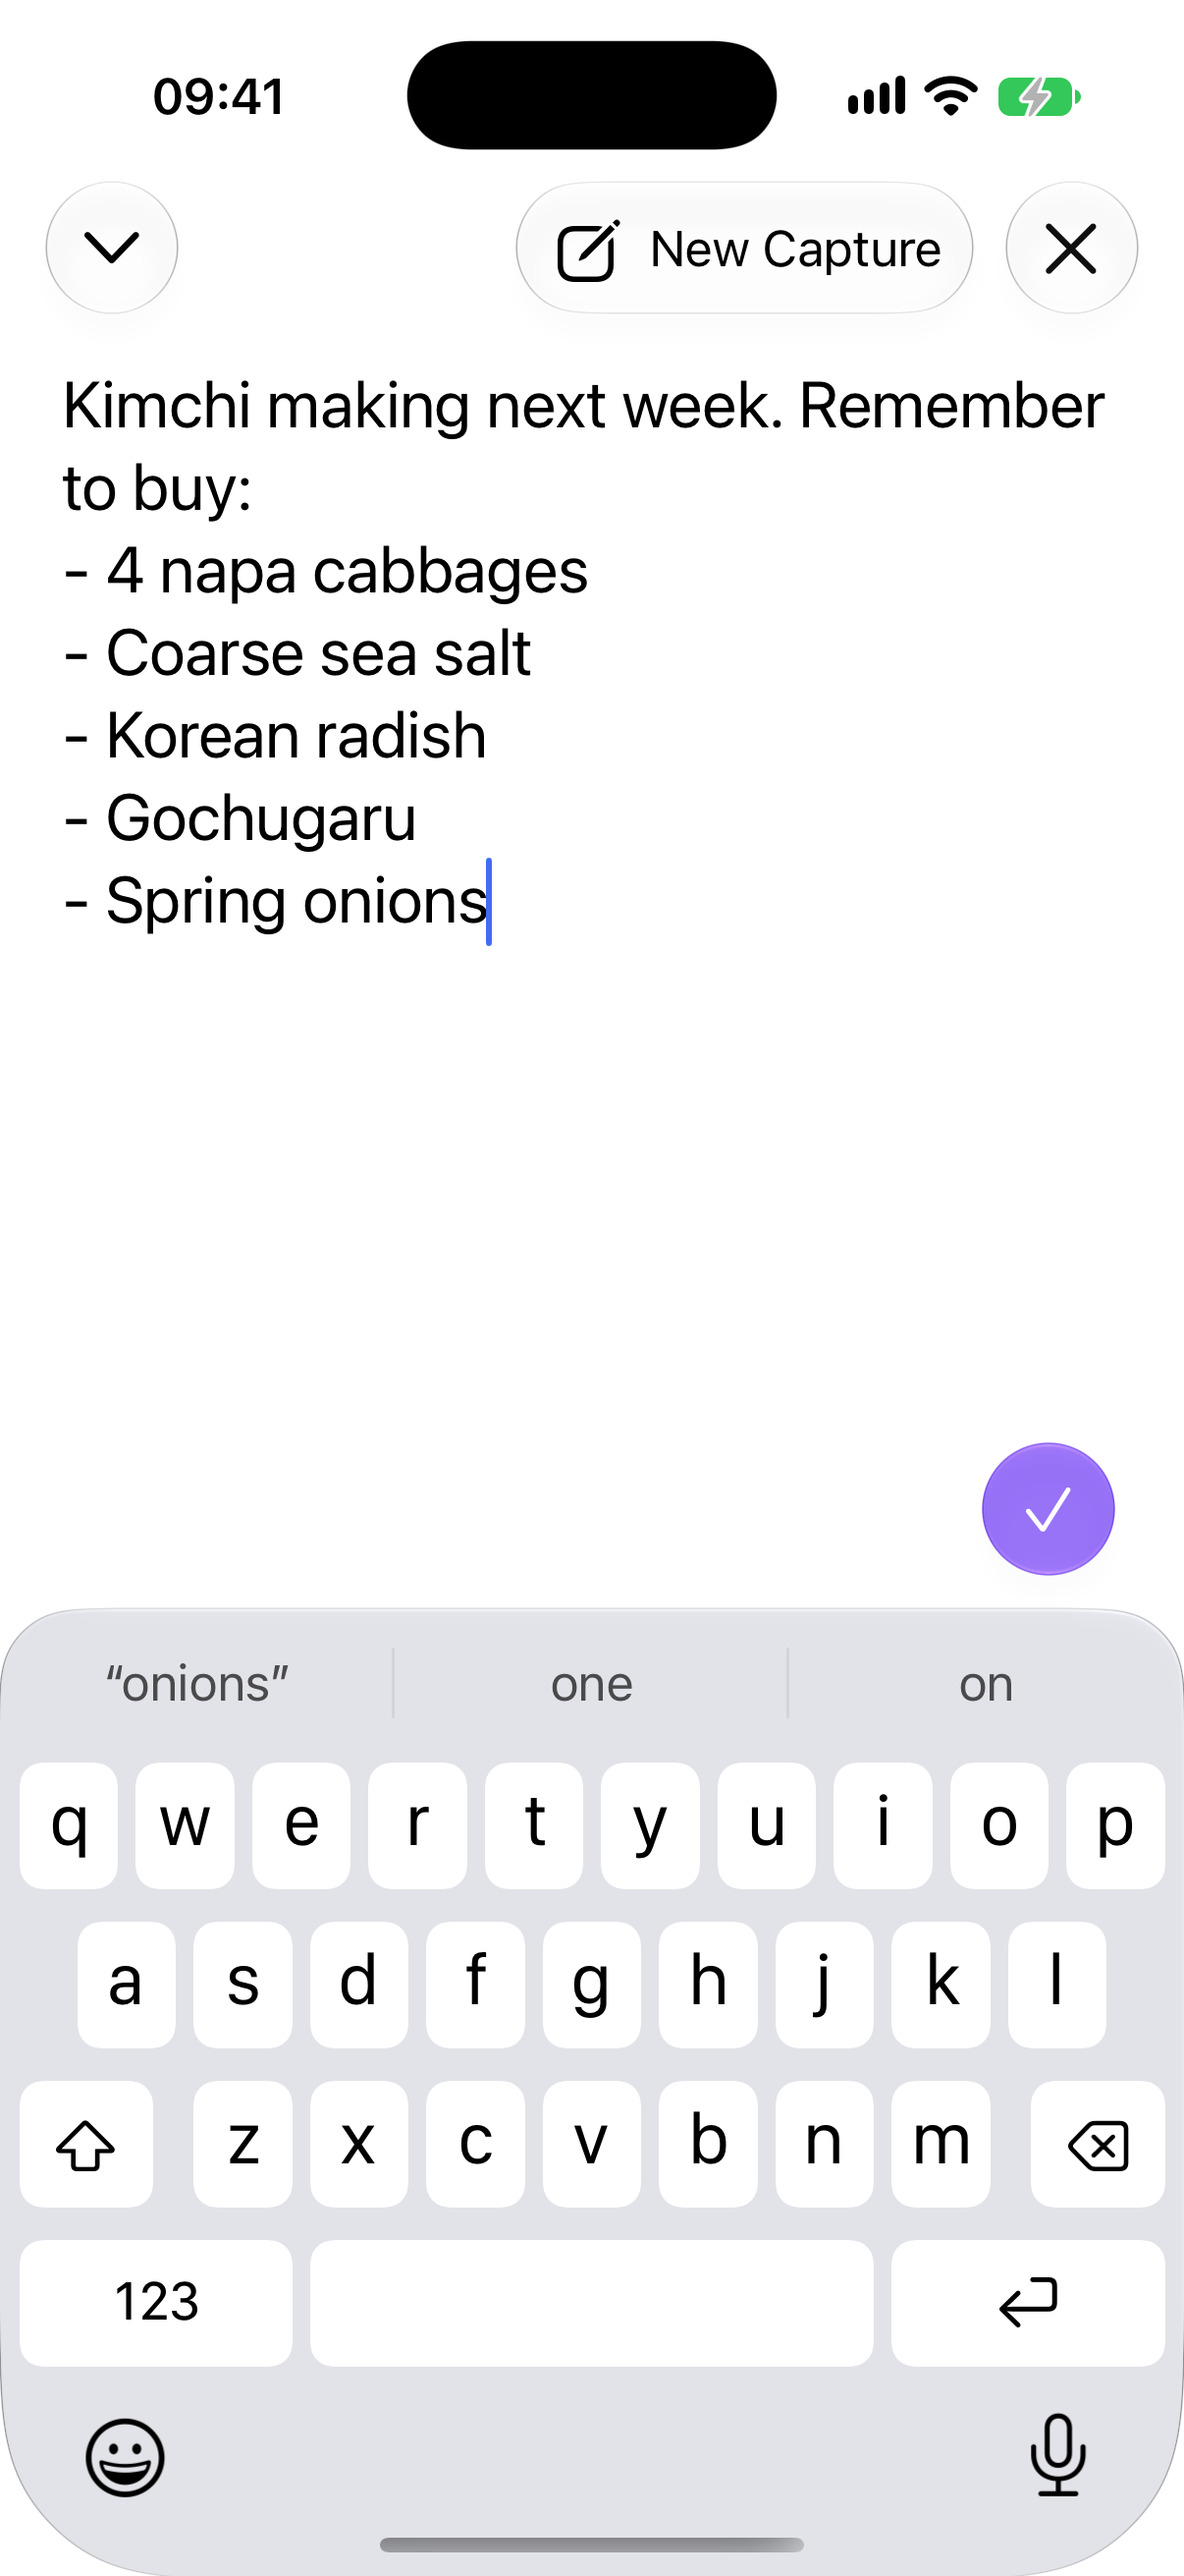
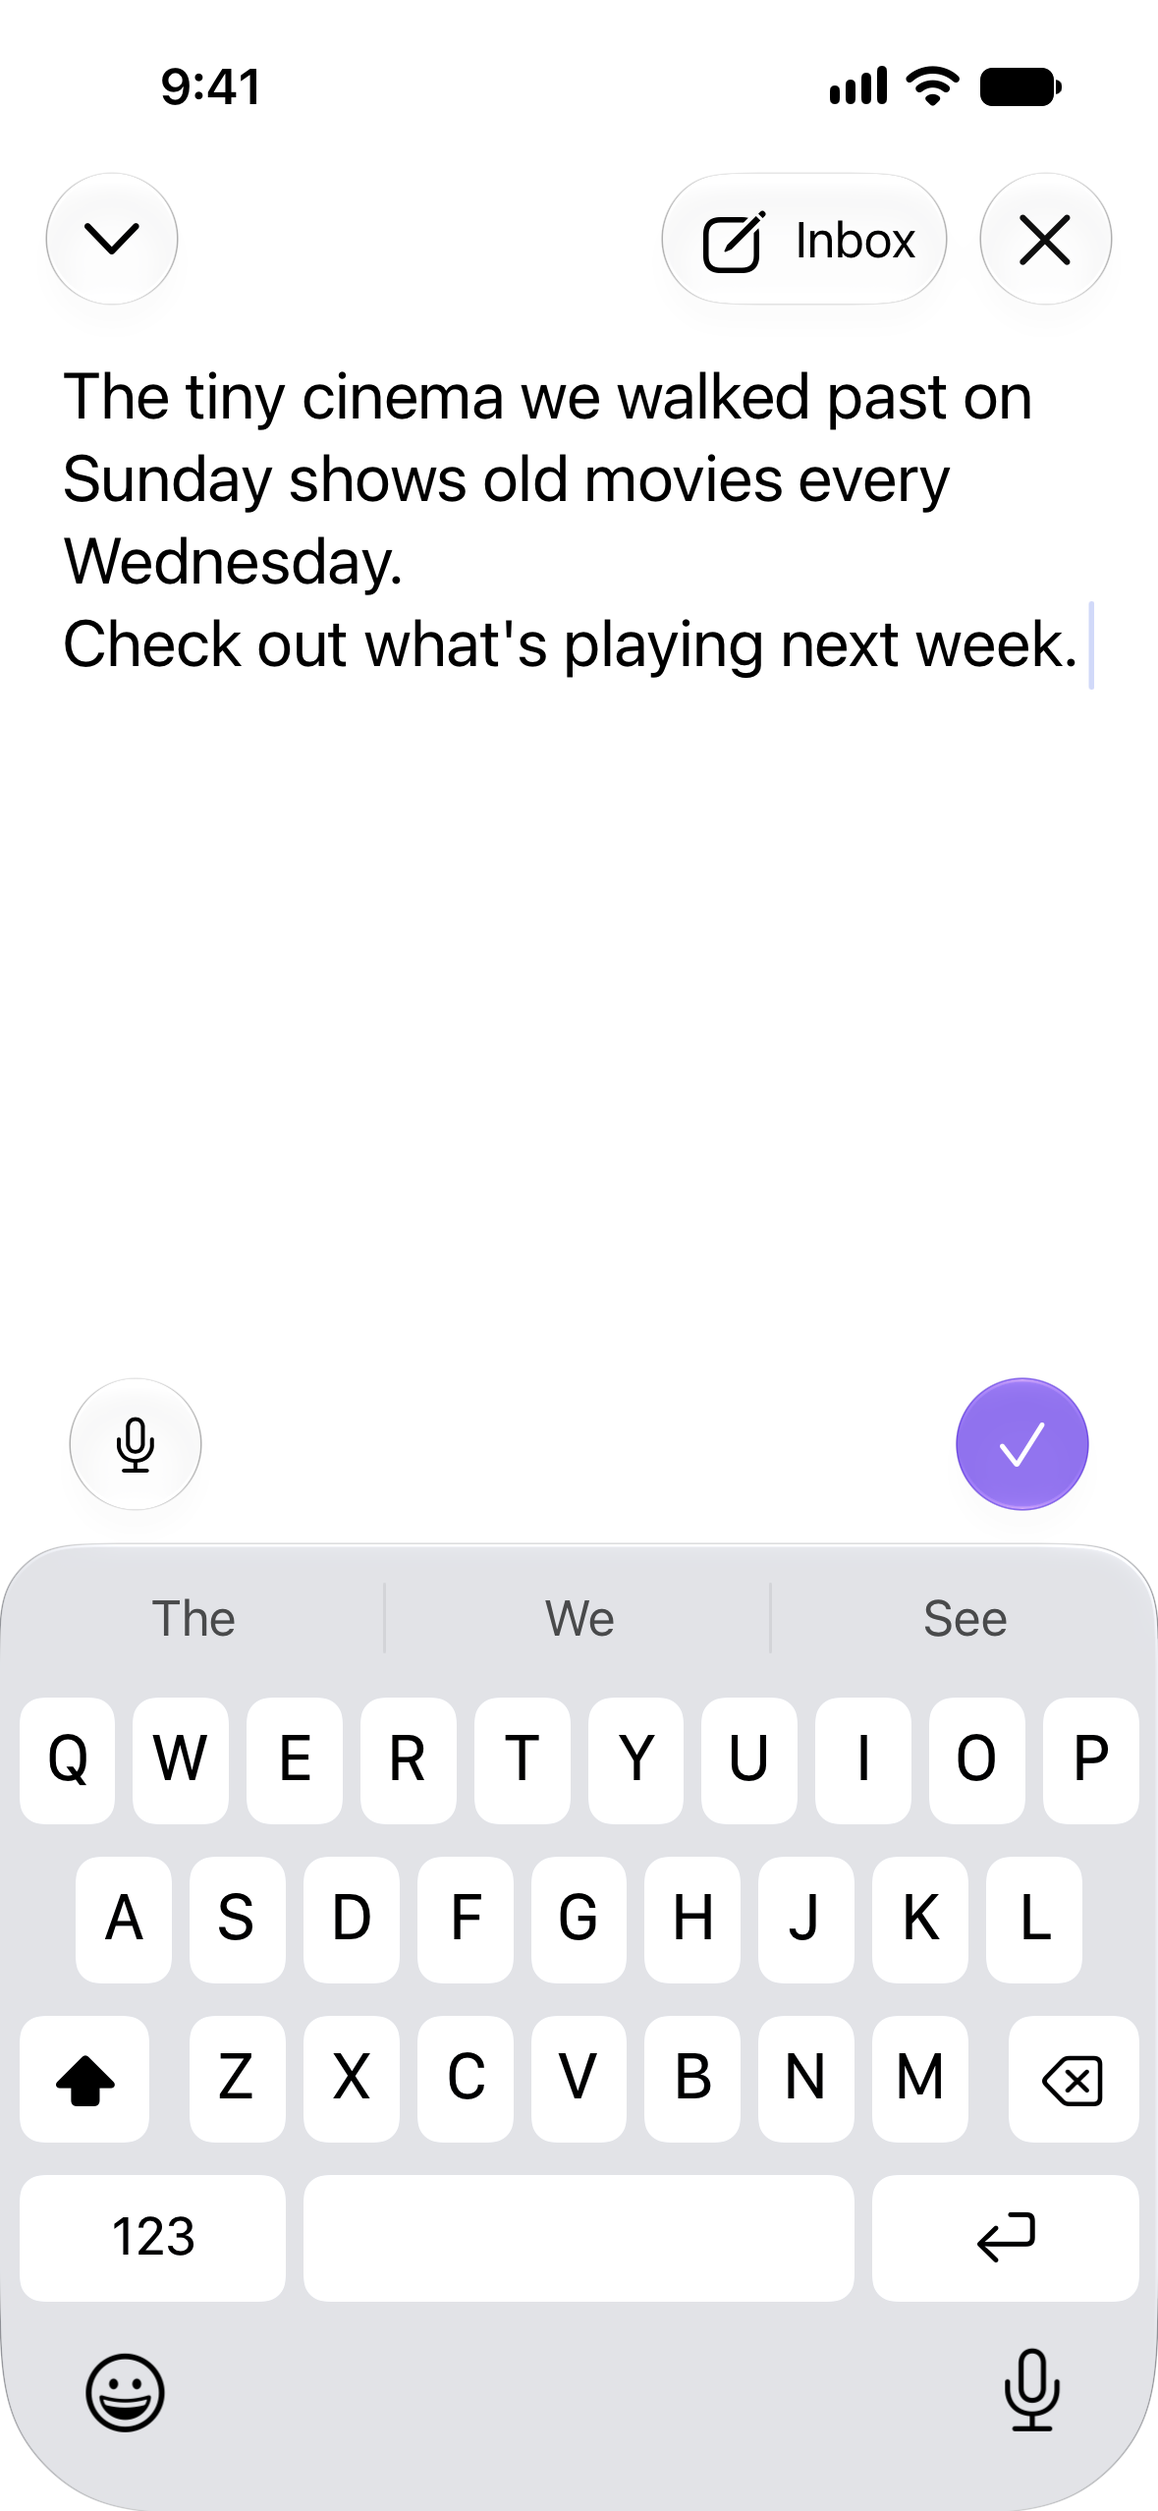
iOS: Document Voice Capture in Quick Capture

diff --git a/en/Obsidian/Obsidian for iOS and iPadOS.md b/en/Obsidian/Obsidian for iOS and iPadOS.md
@@ -77,6 +77,34 @@ To capture text:
 
 ![[ios-quick-capture-live-activity.png|400]]
 
+### Voice Capture
+
+Voice Capture lets you record a voice note with Quick Capture. Obsidian transcribes what you say as you speak, and can save the recording to your vault alongside the transcript.
+
+To capture a voice note:
+
+1. Open Quick Capture, then tap the microphone button in the bottom-left corner. Recording starts right away.
+2. Speak your note. The transcript appears in the text area as you talk, and you can edit it at any time.
+3. Tap the recording button at the bottom of the screen to pause, and tap it again to resume.
+4. Tap the checkmark to save the transcript and recording to the selected capture location.
+
+![[ios-voice-capture.png|400]]
+
+You can also start recording directly from a widget. When customizing a Quick Capture widget, choose an action from the **Voice Capture** section.
+
+Recording continues if you minimize Quick Capture or lock your device. While recording, the Lock Screen and Dynamic Island show the live transcript and a timer. Tap the timer to pause or resume recording.
+
+![[ios-voice-capture-live-activity.png|400]]
+
+#### Voice Capture settings
+
+To change Voice Capture settings, tap the gear icon at the top of the screen while in Voice Capture.
+
+- **Language**: The language used for transcription. Select **None** to turn off transcription and record audio only.
+- **Microphone**: The microphone used for recording, such as the built-in microphone or a connected headset.
+- **Save Audio File**: Whether to save the recording to your vault.
+- **Audio from Other Apps**: What happens to music or other audio that's playing when you record: **Keep Playing**, **Lower Volume**, or **Pause**. Changes apply from your next recording.
+
 ### Capture locations
 
 Capture locations determine where Quick Capture saves your text. A capture location can:
